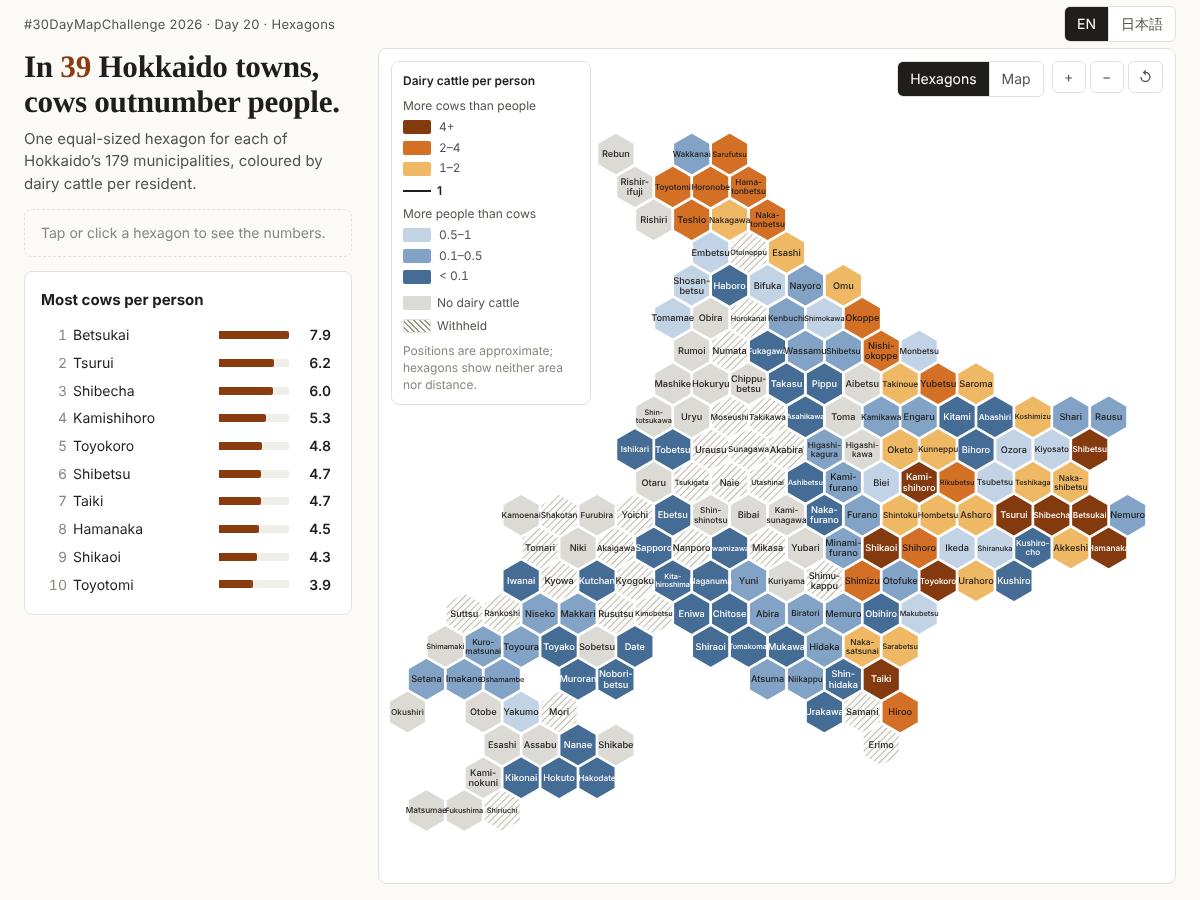
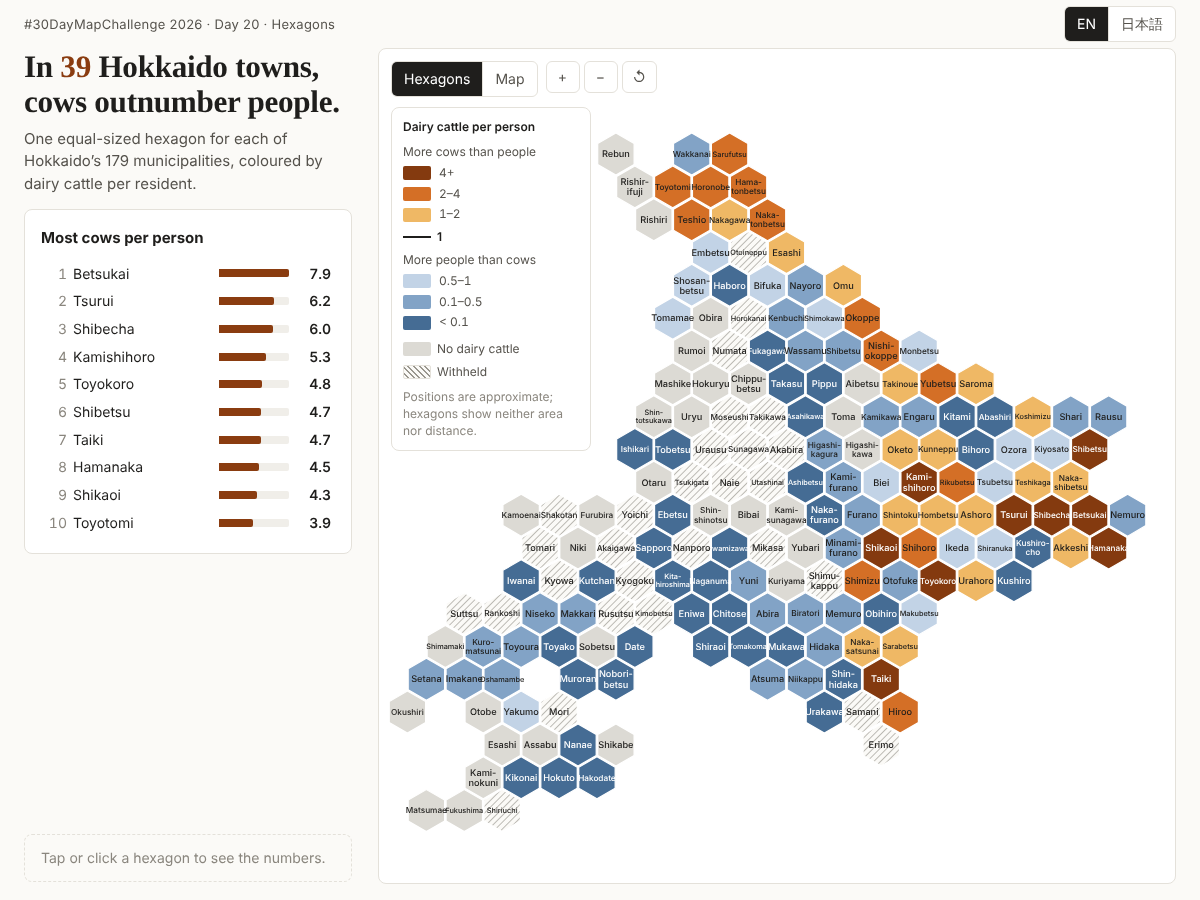
Move view controls to the top left of the map and the selected municipality to the bottom of the left panel

diff --git a/web/style.css b/web/style.css
@@ -209,9 +209,12 @@ th { position: sticky; top: 0; background: var(--bg); font-weight: 600; color: v
 .small { font-size: 13px; color: var(--ink-3); }
 
 
-/* Desktop: the legend sits in the empty Sea of Japan at the top left, as a vertical key. */
+/* Desktop: view controls and a vertical key sit in the empty Sea of Japan at the top left;
+   the selected municipality sits at the bottom of the left panel. */
 @media (min-width: 1081px) {
-  .ov-legend { width: 200px; top: 12px; left: 12px; right: auto; bottom: auto; padding: 10px 11px; font-size: 12px; }
+  .ov-tools { left: 12px; right: auto; }
+  .ov-legend { width: 200px; top: 58px; left: 12px; right: auto; bottom: auto; padding: 10px 11px; font-size: 12px; }
+  .panel .detail { margin-top: auto; }
   .legend { font-size: 12px; }
   .legend .scale { flex-direction: column-reverse; align-items: stretch; gap: 4px; }
   .legend .arm { display: flex; flex-direction: column-reverse; }
@@ -224,6 +227,11 @@ th { position: sticky; top: 0; background: var(--bg); font-weight: 600; color: v
   .legend .mid i { width: 28px; height: 2px; }
   .legend .extra { flex-direction: column; gap: 4px; }
   .legend .extra .sw { width: 28px; }
+}
+
+/* Short desktop screens: show the top five only, so the selected town stays on screen. */
+@media (min-width: 1081px) and (max-height: 820px) {
+  .top10 li:nth-child(n + 6) { display: none; }
 }
 
 @media (max-width: 1080px) {

diff --git a/web/index.html b/web/index.html
@@ -26,11 +26,11 @@
         <h1 id="headline">In <span class="n">–</span> Hokkaido towns, cows outnumber people.</h1>
         <p class="dek" data-i18n="dek"></p>
       </section>
-      <section id="detail" class="card detail" aria-live="polite"></section>
       <section class="card topcard">
         <h2 data-i18n="topTitle">Most cows per person</h2>
         <ol id="top10" class="top10"></ol>
       </section>
+      <section id="detail" class="card detail" aria-live="polite"></section>
     </aside>
 
     <section class="mapcol">

diff --git a/web/app.js b/web/app.js
@@ -219,6 +219,12 @@
     highlight(code);
     renderDetail();
     d3.selectAll("#top10 li").classed("sel", (t) => t.code === code);
+    // Desktop: keep the detail card visible inside the left panel.
+    const panel = document.querySelector(".panel");
+    if (panel && panel.scrollHeight > panel.clientHeight) {
+      const el = document.getElementById("detail");
+      panel.scrollTop = el.offsetTop + el.offsetHeight - panel.clientHeight;
+    }
   }
 
   function renderDetail() {
